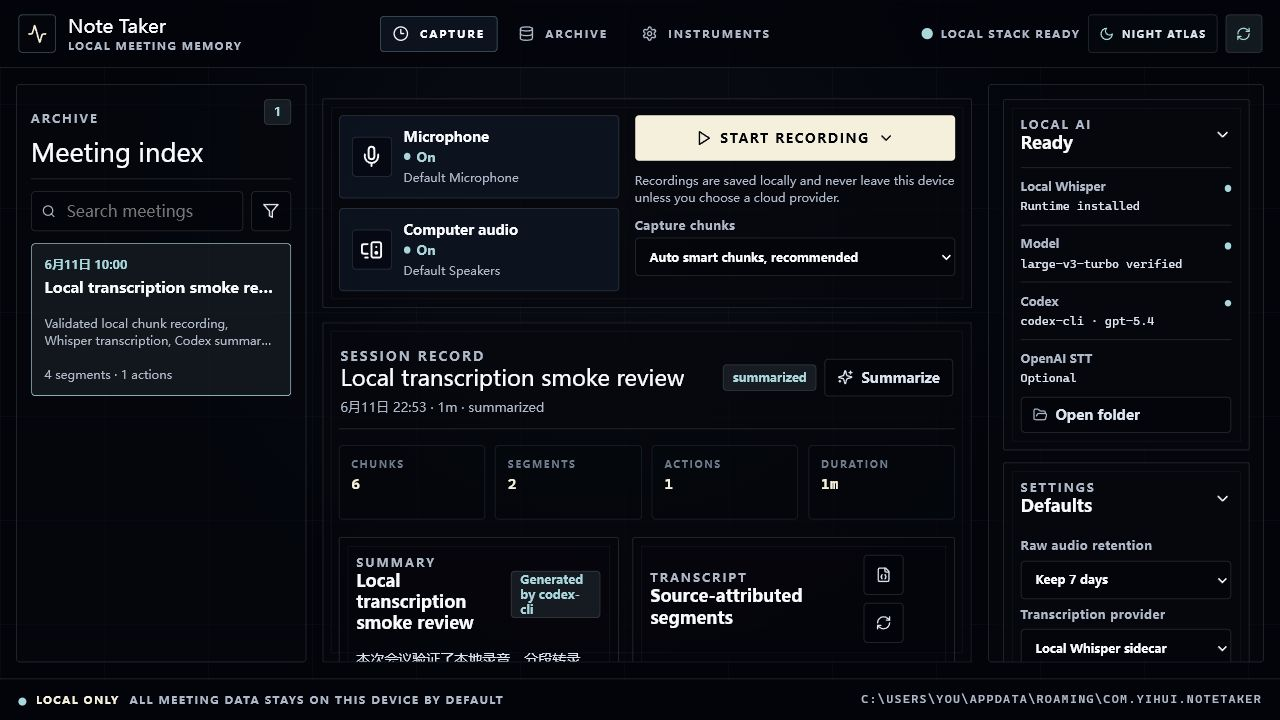
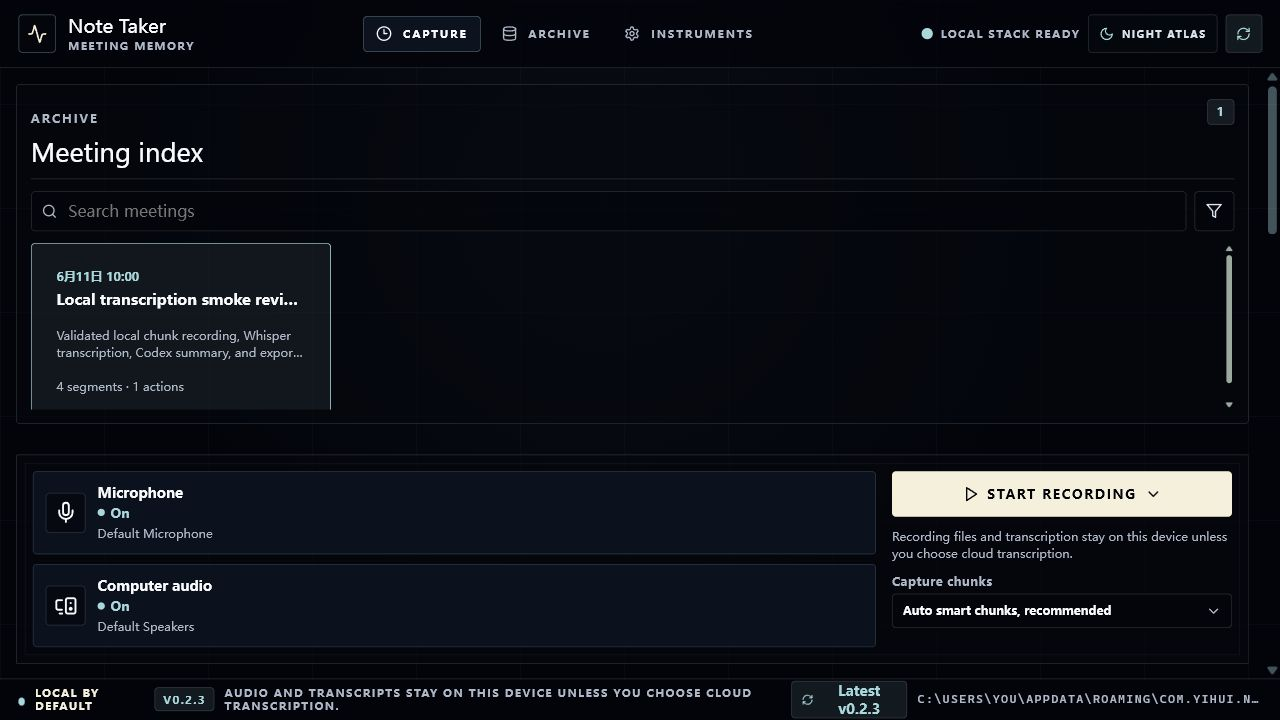
Update README screenshots

diff --git a/src/main.tsx b/src/main.tsx
@@ -1312,7 +1312,7 @@ function App() {
       <footer className="atlas-footer">
         <span className="privacy-dot" />
         <strong>{settings.transcriptionProvider === "openai-api" ? "Cloud transcription on" : "Local by default"}</strong>
-        <span className="version-pill">v{status?.appVersion ?? "0.2.1"}</span>
+        <span className="version-pill">v{status?.appVersion ?? "0.2.3"}</span>
         <span>{settings.transcriptionProvider === "openai-api" ? "Audio windows are sent to OpenAI for transcription." : "Audio and transcripts stay on this device unless you choose cloud transcription."}</span>
         <button className="ghost-action" type="button" onClick={() => void checkForUpdates(false)} disabled={updateCheckStatus === "checking"}>
           <RefreshCw size={14} aria-hidden="true" />
@@ -2193,7 +2193,7 @@ async function mockBackend<T>(command: string, args?: Record<string, unknown>): 
   if (command === "get_app_status") {
     const sidecar = mockSidecar(mockModelVerified, mockRuntimeInstalled);
     return {
-      appVersion: "0.2.1",
+      appVersion: "0.2.3",
       appDataDir: "C:\\Users\\you\\AppData\\Roaming\\com.yihui.notetaker",
       databasePath: "C:\\Users\\you\\AppData\\Roaming\\com.yihui.notetaker\\note-taker.sqlite3",
       recordingsDir: "C:\\Users\\you\\AppData\\Roaming\\com.yihui.notetaker\\recordings",
@@ -2439,14 +2439,14 @@ async function mockBackend<T>(command: string, args?: Record<string, unknown>): 
   }
   if (command === "check_for_app_update") {
     return {
-      currentVersion: "0.1.0",
-      latestVersion: "v0.2.0",
-      updateAvailable: true,
-      installable: true,
-      releaseName: "Note Taker v0.2.0",
-      releaseUrl: "https://github.com/yihuil1992/note-taker/releases/tag/v0.2.0",
-      publishedAt: "2026-06-12T12:00:00Z",
-      notes: "Startup update checks now surface the latest GitHub release without interrupting local recording work."
+      currentVersion: "0.2.3",
+      latestVersion: "v0.2.3",
+      updateAvailable: false,
+      installable: false,
+      releaseName: "Note Taker v0.2.3",
+      releaseUrl: "https://github.com/yihuil1992/note-taker/releases/tag/v0.2.3",
+      publishedAt: "2026-06-12T22:47:08Z",
+      notes: "You are running the latest release."
     } as T;
   }
   if (command === "open_sidecar_folder" || command === "open_exports_folder" || command === "open_url") return undefined as T;